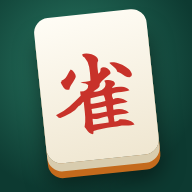
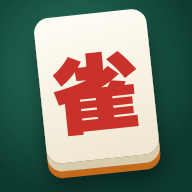
見出し・演出のフォントを筆文字から太ゴシック（M PLUS 1）に変更、アイコン更新
Claude-Session: https://claude.ai/code/session_01Ft521yaQ3vXk3JRsoTDFV3

Changed region(s): [[0.2812, 0.25, 0.75, 0.7188]]

diff --git a/app/globals.css b/app/globals.css
@@ -10,7 +10,7 @@
   --panel:rgba(10,14,16,.78); --line:rgba(242,207,115,.35);
   --ui:'M PLUS Rounded 1c','Hiragino Maru Gothic ProN','Hiragino Sans',system-ui,sans-serif;
   --num:'Barlow Condensed','M PLUS Rounded 1c',sans-serif;
-  --brush:'Yuji Boku','Hiragino Mincho ProN','Yu Mincho',serif;
+  --brush:'M PLUS 1','Hiragino Sans','Noto Sans JP',sans-serif;
 }
 *{box-sizing:border-box}
 [hidden]{display:none!important}
@@ -24,7 +24,7 @@ button:focus-visible,input:focus-visible,select:focus-visible{outline:3px solid 
   background:radial-gradient(ellipse 70% 60% at 50% 42%,#233636 0%,#111c1d 55%,#07090a 100%)}
 #stage::after{content:"";position:absolute;inset:0;pointer-events:none;background:radial-gradient(ellipse at 50% 40%,transparent 55%,rgba(0,0,0,.55) 100%);z-index:1}
 .num{font-family:var(--num);font-weight:700;font-variant-numeric:tabular-nums;letter-spacing:.01em}
-.brush{font-family:var(--brush);font-weight:400}
+.brush{font-family:var(--brush);font-weight:900}
 
 /* ===== 牌 ===== */
 .gl{position:absolute;inset:7% 8%;background-repeat:no-repeat;background-position:center;background-size:contain}
@@ -112,12 +112,12 @@ button:focus-visible,input:focus-visible,select:focus-visible{outline:3px solid 
 .lb-table{position:absolute;left:calc(50% - 80px);top:120px;width:980px;height:980px;border-radius:50%;background:radial-gradient(circle at 45% 40%,var(--felt1),var(--felt2) 70%);box-shadow:0 0 0 26px #3a2415,0 0 0 30px var(--gold-dk),0 40px 120px rgba(0,0,0,.8);transform:perspective(1200px) rotateX(52deg);opacity:.9}
 .lb-tiles{position:absolute;left:calc(50% + 80px);top:690px;display:flex;gap:4px;transform:perspective(900px) rotateX(38deg) rotateZ(-9deg);--tw:66px}
 .logo{position:absolute;left:84px;top:62px}
-.logo h1{margin:0;font-family:var(--brush);font-weight:400;font-size:150px;line-height:1;letter-spacing:.02em;background:linear-gradient(180deg,#fff6d6 0%,var(--gold) 45%,var(--gold2) 70%,#8a6420 100%);-webkit-background-clip:text;background-clip:text;color:transparent;filter:drop-shadow(0 6px 0 rgba(0,0,0,.55)) drop-shadow(0 0 30px rgba(242,207,115,.25))}
+.logo h1{margin:0;font-family:var(--brush);font-weight:900;font-size:150px;line-height:1;letter-spacing:.02em;background:linear-gradient(180deg,#fff6d6 0%,var(--gold) 45%,var(--gold2) 70%,#8a6420 100%);-webkit-background-clip:text;background-clip:text;color:transparent;filter:drop-shadow(0 6px 0 rgba(0,0,0,.55)) drop-shadow(0 0 30px rgba(242,207,115,.25))}
 .logo .en{font-family:var(--num);letter-spacing:.5em;font-size:22px;color:var(--gold);opacity:.8;margin:6px 0 0 8px}
 .profile{position:absolute;left:84px;top:360px;width:520px;padding:22px 24px;border-radius:22px;background:linear-gradient(160deg,rgba(28,36,38,.92),rgba(10,14,16,.92));box-shadow:inset 0 0 0 1px var(--line),0 24px 60px rgba(0,0,0,.5);display:grid;grid-template-columns:auto 1fr;gap:18px 20px;align-items:center}
 .emblem{width:112px;height:124px;position:relative;display:grid;place-items:center}
 .emblem svg{position:absolute;inset:0}
-.emblem b{position:relative;font-family:var(--brush);font-weight:400;font-size:40px;color:#fff;text-shadow:0 2px 0 rgba(0,0,0,.5);line-height:1;margin-top:-8px}
+.emblem b{position:relative;font-family:var(--brush);font-weight:900;font-size:40px;color:#fff;text-shadow:0 2px 0 rgba(0,0,0,.5);line-height:1;margin-top:-8px}
 .emblem small{position:absolute;bottom:18px;font-size:14px;color:#fff;text-shadow:0 1px 0 rgba(0,0,0,.6)}
 .pf-name{font-size:30px;font-weight:800;letter-spacing:.02em}
 .pf-rank{font-size:18px;color:var(--gold);margin-top:2px}
@@ -134,7 +134,7 @@ button:focus-visible,input:focus-visible,select:focus-visible{outline:3px solid 
 .mb-start:hover{transform:translateY(-3px)}
 .mb-start:active{transform:translateY(2px)}
 .mb-start .s{position:relative;z-index:1}
-.mb-start .t{font-family:var(--brush);font-weight:400;font-size:84px;line-height:1;color:#fff;text-shadow:0 4px 0 rgba(0,0,0,.3)}
+.mb-start .t{font-family:var(--brush);font-weight:900;font-size:84px;line-height:1;color:#fff;text-shadow:0 4px 0 rgba(0,0,0,.3)}
 .mb-start .s{font-size:18px;color:#ffe0cf;margin-top:8px}
 .mb-start::after{content:"";position:absolute;right:-40px;top:-60px;width:260px;height:260px;border-radius:50%;background:radial-gradient(circle,rgba(255,255,255,.25),transparent 65%)}
 .mb-start .tl{position:absolute;right:34px;top:26px;display:flex;gap:3px;--tw:40px;transform:rotate(6deg)}
@@ -154,7 +154,7 @@ button:focus-visible,input:focus-visible,select:focus-visible{outline:3px solid 
 @keyframes fade{from{opacity:0}}
 .sheet{width:1060px;max-height:780px;overflow:auto;border-radius:26px;background:linear-gradient(170deg,#1c2628,#0d1315);box-shadow:inset 0 0 0 1px var(--line),0 40px 100px rgba(0,0,0,.7);padding:34px 40px;animation:rise .28s cubic-bezier(.2,1.2,.4,1)}
 @keyframes rise{from{transform:translateY(30px) scale(.97);opacity:0}}
-.sheet h2{margin:0 0 22px;font-family:var(--brush);font-weight:400;font-size:52px;color:var(--gold);display:flex;align-items:center;gap:16px}
+.sheet h2{margin:0 0 22px;font-family:var(--brush);font-weight:900;font-size:52px;color:var(--gold);display:flex;align-items:center;gap:16px}
 .sheet h2 .x{margin-left:auto;font-family:var(--ui);font-size:18px;border:0;background:rgba(255,255,255,.08);border-radius:12px;padding:10px 18px;cursor:pointer}
 .sheet h3{font-size:15px;color:var(--gold);letter-spacing:.1em;margin:24px 0 12px}
 .mrow{display:grid;grid-template-columns:auto 1fr 220px;gap:18px;align-items:center;padding:14px 0;border-bottom:1px solid rgba(255,255,255,.06)}
@@ -205,14 +205,14 @@ select.inp{font-size:18px}
 .cp{position:absolute;left:315px;top:315px;width:210px;height:210px;border-radius:22px;transform:translateZ(3px);
   background:radial-gradient(circle at 50% 40%,#1b2426,#070a0b 80%);box-shadow:inset 0 0 0 2px rgba(0,0,0,.6),inset 0 0 0 4px rgba(242,207,115,.45),0 10px 20px rgba(0,0,0,.5)}
 .cp .mid{position:absolute;inset:0;display:flex;flex-direction:column;align-items:center;justify-content:center;gap:2px}
-.cp .rn{font-family:var(--brush);font-size:38px;line-height:1;color:#fff}
+.cp .rn{font-family:var(--brush);font-weight:900;font-size:38px;line-height:1;color:#fff}
 .cp .wl{font-family:var(--num);font-size:26px;color:var(--gold);line-height:1}
 .cp .wl small{font-family:var(--ui);font-size:12px;color:var(--muted);margin-right:4px}
 .cp .hb{display:flex;gap:10px;font-size:12px;color:var(--muted);margin-top:4px}
 .cp .hb b{font-family:var(--num);font-size:17px;color:var(--text)}
 .cps{position:absolute;inset:0;transform-origin:50% 50%}
 .cps .lab{position:absolute;left:0;right:0;bottom:8px;display:flex;justify-content:center;align-items:baseline;gap:8px}
-.cps .w{font-family:var(--brush);font-size:26px;color:#c9d2cd;line-height:1}
+.cps .w{font-family:var(--brush);font-weight:900;font-size:26px;color:#c9d2cd;line-height:1}
 .cps.dealer .w{color:var(--red)}
 .cps .sc{font-family:var(--num);font-size:30px;line-height:1;color:#fff}
 .cps .bar{position:absolute;left:30px;right:30px;bottom:0;height:5px;border-radius:3px;background:transparent}
@@ -235,7 +235,7 @@ select.inp{font-size:18px}
 /* HUD */
 .hud{position:absolute;z-index:5}
 .roundhud{left:24px;top:22px;width:300px;padding:16px 20px;border-radius:18px;background:var(--panel);box-shadow:inset 0 0 0 1px var(--line),0 10px 30px rgba(0,0,0,.5);backdrop-filter:blur(4px)}
-.roundhud .rn{font-family:var(--brush);font-size:46px;line-height:1;color:#fff}
+.roundhud .rn{font-family:var(--brush);font-weight:900;font-size:46px;line-height:1;color:#fff}
 .roundhud .rn small{font-family:var(--ui);font-size:15px;color:var(--muted);margin-left:8px}
 .roundhud .row{display:flex;gap:16px;margin-top:10px;font-size:13px;color:var(--muted);align-items:center}
 .roundhud .row b{font-family:var(--num);font-size:22px;color:var(--text);margin-left:4px}
@@ -250,12 +250,12 @@ select.inp{font-size:18px}
 .ib.on{box-shadow:inset 0 0 0 1px var(--gold);color:var(--gold)}
 .ib.arm{box-shadow:inset 0 0 0 2px var(--red);color:#ff9d94}
 .pp{position:absolute;z-index:6;display:flex;align-items:center;gap:12px}
-.av{position:relative;border-radius:50%;flex:none;display:grid;place-items:center;overflow:hidden;font-family:var(--brush);color:#fff;text-shadow:0 2px 0 rgba(0,0,0,.4)}
+.av{position:relative;border-radius:50%;flex:none;display:grid;place-items:center;overflow:hidden;font-family:var(--brush);font-weight:900;color:#fff;text-shadow:0 2px 0 rgba(0,0,0,.4)}
 .av img{width:100%;height:100%;object-fit:cover;display:block}
 .pp .ring{position:relative;width:92px;height:92px;border-radius:50%;padding:4px;background:linear-gradient(160deg,#fff3c4,var(--gold2) 50%,#5a410f);box-shadow:0 8px 20px rgba(0,0,0,.6)}
 .pp .ring .av{width:100%;height:100%;font-size:42px}
 .pp.turn .ring{box-shadow:0 0 0 3px rgba(242,207,115,.7),0 0 26px rgba(242,207,115,.8),0 8px 20px rgba(0,0,0,.6)}
-.pp .oya{position:absolute;left:-6px;top:-6px;width:34px;height:34px;border-radius:50%;background:linear-gradient(180deg,#ff6a4a,var(--red-dk));display:grid;place-items:center;font-family:var(--brush);font-size:20px;box-shadow:0 3px 8px rgba(0,0,0,.5),inset 0 0 0 2px rgba(255,220,200,.6)}
+.pp .oya{position:absolute;left:-6px;top:-6px;width:34px;height:34px;border-radius:50%;background:linear-gradient(180deg,#ff6a4a,var(--red-dk));display:grid;place-items:center;font-family:var(--brush);font-weight:900;font-size:20px;box-shadow:0 3px 8px rgba(0,0,0,.5),inset 0 0 0 2px rgba(255,220,200,.6)}
 .pp .rch{position:absolute;right:-8px;bottom:-4px;background:var(--red);font-size:12px;padding:3px 8px;border-radius:8px;box-shadow:0 3px 8px rgba(0,0,0,.5)}
 .pp .nb{display:flex;flex-direction:column;gap:3px;padding:8px 16px 9px;border-radius:14px;background:var(--panel);box-shadow:inset 0 0 0 1px rgba(255,255,255,.1)}
 .pp .nb b{font-size:19px;line-height:1.1;white-space:nowrap}
@@ -301,7 +301,7 @@ select.inp{font-size:18px}
 @keyframes tin{from{transform:translateY(-40px);opacity:0}}
 
 .acts{position:absolute;right:40px;bottom:196px;z-index:8;display:flex;gap:14px;align-items:center}
-.ab{position:relative;height:84px;min-width:170px;padding:0 30px;border:0;border-radius:42px;cursor:pointer;font-family:var(--brush);font-size:44px;line-height:1;color:#fff;letter-spacing:.04em;
+.ab{position:relative;height:84px;min-width:170px;padding:0 30px;border:0;border-radius:42px;cursor:pointer;font-family:var(--brush);font-weight:900;font-size:44px;line-height:1;color:#fff;letter-spacing:.04em;
   text-shadow:0 3px 0 rgba(0,0,0,.35);box-shadow:inset 0 3px 0 rgba(255,255,255,.4),inset 0 -6px 0 rgba(0,0,0,.25),0 12px 26px rgba(0,0,0,.55);animation:abin .3s cubic-bezier(.2,1.6,.4,1) both;transition:transform .1s}
 .ab:hover{transform:translateY(-3px) scale(1.03)}
 .ab:active{transform:translateY(2px)}
@@ -348,7 +348,7 @@ select.inp{font-size:18px}
 .band.riichi{background:linear-gradient(90deg,transparent,rgba(160,20,15,.92) 12%,rgba(232,69,58,.95) 50%,rgba(160,20,15,.92) 88%,transparent);box-shadow:0 0 80px rgba(232,69,58,.6)}
 .band.riichi::before,.band.riichi::after{content:"";position:absolute;left:0;right:0;height:4px;background:linear-gradient(90deg,transparent,#fff,transparent)}
 .band.riichi::before{top:10px}.band.riichi::after{bottom:10px}
-.band b{font-family:var(--brush);font-weight:400;font-size:180px;line-height:1;color:#fff;text-shadow:0 8px 0 rgba(0,0,0,.35),0 0 40px rgba(255,255,255,.4)}
+.band b{font-family:var(--brush);font-weight:900;font-size:180px;line-height:1;color:#fff;text-shadow:0 8px 0 rgba(0,0,0,.35),0 0 40px rgba(255,255,255,.4)}
 .band span{font-size:34px;font-weight:800;color:#fff;opacity:.95}
 .speed{position:absolute;inset:0;background:repeating-linear-gradient(-6deg,transparent 0 30px,rgba(255,255,255,.06) 30px 32px);animation:spd .4s linear infinite}
 @keyframes spd{to{background-position:200px 0}}
@@ -358,10 +358,10 @@ select.inp{font-size:18px}
 .winfx.ym .rays{background:repeating-conic-gradient(from 0deg,rgba(255,120,200,.28) 0 5deg,rgba(120,200,255,.22) 5deg 10deg,rgba(255,230,120,.28) 10deg 15deg)}
 @keyframes spin{to{transform:rotate(360deg)}}
 .winword{position:relative;text-align:center;animation:slam .5s cubic-bezier(.2,1.6,.4,1) both}
-.winword b{display:block;font-family:var(--brush);font-weight:400;font-size:300px;line-height:1;background:linear-gradient(180deg,#fff8dc 0%,var(--gold) 45%,#b9831f 75%,#fff0b3 100%);-webkit-background-clip:text;background-clip:text;color:transparent;filter:drop-shadow(0 10px 0 rgba(0,0,0,.5)) drop-shadow(0 0 40px rgba(242,207,115,.55))}
+.winword b{display:block;font-family:var(--brush);font-weight:900;font-size:300px;line-height:1;background:linear-gradient(180deg,#fff8dc 0%,var(--gold) 45%,#b9831f 75%,#fff0b3 100%);-webkit-background-clip:text;background-clip:text;color:transparent;filter:drop-shadow(0 10px 0 rgba(0,0,0,.5)) drop-shadow(0 0 40px rgba(242,207,115,.55))}
 .winword span{display:block;font-size:40px;font-weight:800;margin-top:-10px;text-shadow:0 3px 0 rgba(0,0,0,.6)}
 @keyframes slam{from{transform:scale(2.6);opacity:0;filter:blur(8px)}}
-.callw{position:absolute;font-family:var(--brush);font-size:130px;line-height:1;color:#fff;animation:callw .8s ease-out both;text-shadow:0 0 30px rgba(63,155,224,.95),0 6px 0 #173d63}
+.callw{position:absolute;font-family:var(--brush);font-weight:900;font-size:130px;line-height:1;color:#fff;animation:callw .8s ease-out both;text-shadow:0 0 30px rgba(63,155,224,.95),0 6px 0 #173d63}
 .callw.chi{text-shadow:0 0 30px rgba(63,191,127,.95),0 6px 0 #145238}
 .callw.kan{text-shadow:0 0 30px rgba(170,110,255,.95),0 6px 0 #3e1f73}
 @keyframes callw{0%{transform:translate(-50%,-50%) scale(2);opacity:0}25%{transform:translate(-50%,-50%) scale(1);opacity:1}75%{opacity:1}100%{transform:translate(-50%,-50%) scale(1.05);opacity:0}}
@@ -369,7 +369,7 @@ select.inp{font-size:18px}
 /* 結果 */
 .res{position:absolute;inset:0;z-index:35;background:radial-gradient(ellipse at 50% 30%,rgba(28,38,40,.97),rgba(4,6,7,.99));backdrop-filter:blur(8px);animation:fade .3s;display:flex;flex-direction:column;padding:40px 70px}
 .res-head{display:flex;align-items:center;gap:24px}
-.res-head .word{font-family:var(--brush);font-size:110px;line-height:.9;color:var(--gold)}
+.res-head .word{font-family:var(--brush);font-weight:900;font-size:110px;line-height:.9;color:var(--gold)}
 .res-head .ring{width:112px;height:112px;border-radius:50%;padding:5px;background:linear-gradient(160deg,#fff3c4,var(--gold2) 50%,#5a410f)}
 .res-head .ring .av{width:100%;height:100%;font-size:52px}
 .res-head .nm b{display:block;font-size:40px}
@@ -387,7 +387,7 @@ select.inp{font-size:18px}
 .score-side{display:grid;grid-template-columns:auto auto;align-items:center;justify-content:end;gap:6px 30px;align-content:start}
 .score-side .pv{display:flex;flex-direction:column;align-items:flex-end}
 .hanko{width:170px;height:170px;border-radius:30px;display:grid;place-items:center;background:radial-gradient(circle at 40% 35%,#ff5a4a,#c81f19 60%,#8c120e);box-shadow:inset 0 0 0 6px rgba(255,220,210,.8),inset 0 0 0 12px #b01a14,0 20px 40px rgba(0,0,0,.6);transform:rotate(-8deg);animation:stamp .45s cubic-bezier(.2,1.8,.4,1) both}
-.hanko b{font-family:var(--brush);font-weight:400;color:#fff4ec;font-size:66px;line-height:.95;text-align:center;writing-mode:vertical-rl;text-shadow:0 2px 0 rgba(0,0,0,.25)}
+.hanko b{font-family:var(--brush);font-weight:900;color:#fff4ec;font-size:66px;line-height:.95;text-align:center;writing-mode:vertical-rl;text-shadow:0 2px 0 rgba(0,0,0,.25)}
 .hanko.sm b{font-size:46px}
 .hanko.ym{background:radial-gradient(circle at 40% 35%,#fff0b0,var(--gold) 50%,#9a6d17);box-shadow:inset 0 0 0 6px #fffbe6,inset 0 0 0 12px #b58320,0 0 60px rgba(242,207,115,.8)}
 .hanko.ym b{color:#5a2e00}
@@ -412,7 +412,7 @@ select.inp{font-size:18px}
 .fin-list{display:grid;gap:12px;margin-top:22px}
 .fr{display:grid;grid-template-columns:130px 76px 1fr 200px 200px;align-items:center;gap:20px;padding:10px 26px;border-radius:22px;background:rgba(255,255,255,.04);box-shadow:inset 0 0 0 1px rgba(255,255,255,.07);animation:ykin .4s ease-out both}
 .fr.isme{box-shadow:inset 0 0 0 2px var(--gold),0 0 30px rgba(242,207,115,.15)}
-.fr .rk{font-family:var(--brush);font-size:34px;line-height:1;white-space:nowrap}
+.fr .rk{font-family:var(--brush);font-weight:900;font-size:34px;line-height:1;white-space:nowrap}
 .fr .rk b{font-family:var(--num);font-size:64px;margin-right:4px}
 .fr .rk.r1{background:linear-gradient(180deg,#fff6d6,var(--gold) 50%,#9a6d17);-webkit-background-clip:text;background-clip:text;color:transparent}
 .fr .rk.r2{color:#dfe6ea}.fr .rk.r3{color:#d9a077}.fr .rk.r4{color:#8a9296}
@@ -427,7 +427,7 @@ select.inp{font-size:18px}
 .rkcard .emblem b{font-size:32px}
 .rkcard .emblem small{font-size:12px;bottom:14px}
 .batsu{padding:20px 24px;border-radius:20px;background:linear-gradient(160deg,rgba(232,69,58,.25),rgba(232,69,58,.08));box-shadow:inset 0 0 0 1px rgba(232,69,58,.5)}
-.batsu b{display:block;font-family:var(--brush);font-size:34px;color:#ffb3aa}
+.batsu b{display:block;font-family:var(--brush);font-weight:900;font-size:34px;color:#ffb3aa}
 .batsu span{font-size:20px}
 .toast{position:absolute;left:50%;top:26px;transform:translateX(-50%);z-index:60;padding:14px 26px;border-radius:18px;background:linear-gradient(180deg,#fff0bf,var(--gold) 55%,var(--gold2));color:#3b2a06;font-size:20px;font-weight:800;box-shadow:0 14px 30px rgba(0,0,0,.5);animation:toast 2.6s ease both;white-space:nowrap}
 @keyframes toast{0%{transform:translate(-50%,-40px);opacity:0}10%,85%{transform:translate(-50%,0);opacity:1}100%{opacity:0}}
@@ -569,12 +569,12 @@ button.profile:hover{transform:translateY(-2px)}
 .bigbtn{display:inline-flex;align-items:center;justify-content:center;text-decoration:none;white-space:nowrap;font-family:var(--ui);font-weight:800;cursor:pointer}
 .bigbtn.slim{height:76px;padding:0 34px;font-size:28px;border-radius:38px}
 .bigbtn.line{background:linear-gradient(180deg,#2ee27a,#06c755 55%,#04913e);height:76px;padding:0 34px;font-size:28px;border-radius:38px}
-.bigbtn.start{height:112px;padding:0 80px;font-size:44px;font-family:var(--brush);font-weight:400;border-radius:56px}
+.bigbtn.start{height:112px;padding:0 80px;font-size:44px;font-family:var(--brush);font-weight:900;border-radius:56px}
 .bigbtn:disabled,.bigbtn.busy{opacity:.55;cursor:default}
 .chips{display:flex;flex-wrap:wrap;gap:10px}
 .chipb{border:0;cursor:pointer;height:64px;padding:0 26px;border-radius:32px;font-size:24px;background:rgba(255,255,255,.07);color:var(--muted);box-shadow:inset 0 0 0 1px rgba(255,255,255,.12)}
 .chipb.on{background:linear-gradient(180deg,#fff0bf,var(--gold) 55%,var(--gold2));color:#3b2a06}
-.sheet.narrow{width:720px}
+.sheet.narrow{width:860px}
 .sheet.wide{width:min(1700px,calc(100% - 60px))}
 .kp-disp{display:flex;gap:18px;justify-content:center;margin:6px 0 26px}
 .kp-disp span{width:110px;height:130px;border-radius:20px;background:rgba(0,0,0,.4);box-shadow:inset 0 0 0 2px rgba(255,255,255,.12);display:grid;place-items:center;font-family:var(--num);font-size:92px;color:var(--gold)}
@@ -620,12 +620,12 @@ button.profile:hover{transform:translateY(-2px)}
 .hp b{font-family:var(--num);font-size:24px;margin-left:auto}
 .hands{display:grid;gap:8px}
 .hd{display:grid;grid-template-columns:170px 230px 1fr 170px;gap:14px;align-items:center;padding:12px 18px;border-radius:14px;background:rgba(255,255,255,.04);font-size:22px}
-.hd .rd{font-family:var(--brush);font-size:26px}
+.hd .rd{font-family:var(--brush);font-weight:900;font-size:26px}
 .hd .w{font-weight:800;font-size:24px}
 .hd .w small{display:block;font-size:16px;color:var(--muted);font-weight:500}
 .hd .yk2{color:#d8dfd9;font-size:20px}
 .hd .pt2{font-family:var(--num);font-size:32px;text-align:right}
-.hd .pt2 em{font-style:normal;font-family:var(--brush);font-size:22px;color:var(--red);margin-right:10px}
+.hd .pt2 em{font-style:normal;font-family:var(--brush);font-weight:900;font-size:22px;color:var(--red);margin-right:10px}
 .hd.draw{opacity:.75}
 .prof-top{display:flex;gap:26px;align-items:center}
 .prof-top .who{font-size:20px;color:var(--muted);margin-bottom:8px}
@@ -646,7 +646,7 @@ button.profile:hover{transform:translateY(-2px)}
 .seatc{position:relative;display:flex;flex-direction:column;align-items:center;gap:8px;padding:30px 16px 22px;border-radius:26px;background:linear-gradient(170deg,rgba(40,50,52,.92),rgba(14,20,22,.92));box-shadow:inset 0 0 0 1px rgba(255,255,255,.08),0 20px 40px rgba(0,0,0,.4);min-height:330px}
 .seatc.me2{box-shadow:inset 0 0 0 3px var(--gold),0 20px 40px rgba(0,0,0,.4)}
 .seatc.empty{background:rgba(255,255,255,.03);box-shadow:inset 0 0 0 2px rgba(255,255,255,.12)}
-.seatc .sw2{position:absolute;left:18px;top:14px;font-family:var(--brush);font-size:38px;color:var(--muted)}
+.seatc .sw2{position:absolute;left:18px;top:14px;font-family:var(--brush);font-weight:900;font-size:38px;color:var(--muted)}
 .seatc .ring{width:132px;height:132px;border-radius:50%;padding:6px;background:linear-gradient(160deg,#fff3c4,var(--gold2) 50%,#5a410f)}
 .seatc .ring .av{width:100%!important;height:100%!important}
 .seatc .ring.ghost{background:rgba(255,255,255,.06);display:grid;place-items:center;font-family:var(--num);font-size:64px;color:rgba(255,255,255,.25)}
@@ -668,3 +668,9 @@ button.profile:hover{transform:translateY(-2px)}
 .seats.three{grid-template-columns:repeat(3,1fr);left:220px;right:220px}
 .me .mymelds .meld.kita .t2{box-shadow:none}
 .rank-mode{display:flex;gap:10px;margin-bottom:14px}
+
+/* 見出しフォントの調整 */
+.sheet h2{font-size:56px;letter-spacing:.02em;line-height:1.15}
+.sheet h2 .x{white-space:nowrap;flex:none}
+.logo h1{letter-spacing:.06em}
+.band b,.winword b{font-style:italic;letter-spacing:.02em}

diff --git a/lib/client/app.js b/lib/client/app.js
@@ -1426,7 +1426,7 @@ function askName(){
     $('#lobby').innerHTML = '';
     const body = `<div class="pf-sub" style="font-size:24px">卓でみんなに表示される名前です。あとから変えられます。</div>
       <div class="inline" style="margin-top:20px"><input class="inp" id="nm-first" maxlength="10" placeholder="例：まさ" autocomplete="nickname"><button class="bigbtn slim" id="nm-ok" type="button">決定</button></div>`;
-    sheet('麻雀横丁へようこそ', body, { cls: 'narrow', closeLabel: 'あとで', onClose: () => res() });
+    sheet('名前を決めよう', body, { cls: 'narrow', closeLabel: 'あとで', onClose: () => res() });
     const ok = async () => {
       const v = $('#nm-first').value.trim(); if (!v) return;
       busy($('#nm-ok'), true);

diff --git a/app/layout.js b/app/layout.js
@@ -21,7 +21,7 @@ export default function RootLayout({ children }) {
       <head>
         <link rel="preconnect" href="https://fonts.googleapis.com" />
         <link rel="preconnect" href="https://fonts.gstatic.com" crossOrigin="" />
-        <link rel="stylesheet" href="https://fonts.googleapis.com/css2?family=M+PLUS+Rounded+1c:wght@500;700;800&family=Barlow+Condensed:wght@600;700&family=Yuji+Boku&display=swap" />
+        <link rel="stylesheet" href="https://fonts.googleapis.com/css2?family=M+PLUS+Rounded+1c:wght@500;700;800&family=M+PLUS+1:wght@800;900&family=Barlow+Condensed:wght@600;700&display=swap" />
       </head>
       <body>{children}</body>
     </html>
